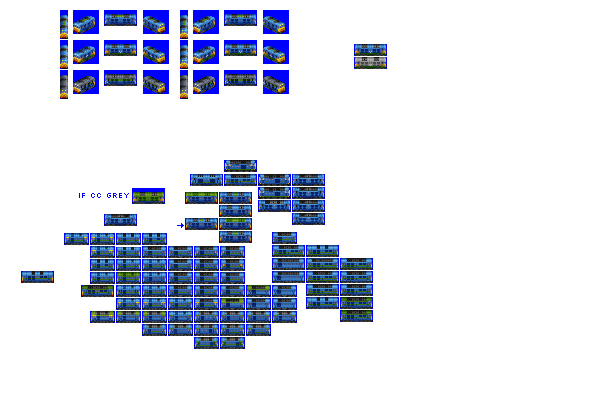
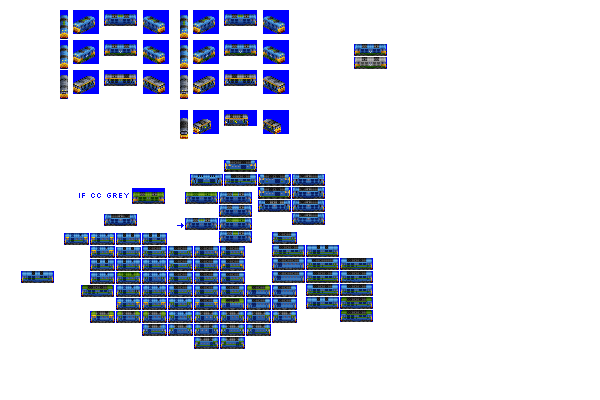
Change: additional liveries for Growler and Merlion

diff --git a/src/vehicles/growler.py b/src/vehicles/growler.py
@@ -15,7 +15,7 @@ def main(roster_id):
         random_reverse=True,
         gen=4,
         caboose_family="railfreight_1",
-        additional_liveries=["RAILFREIGHT_RED_STRIPE"],
+        additional_liveries=["BANGER_BLUE", "LARGE_LOGO", "RAILFREIGHT_RED_STRIPE"],
         default_livery_extra_docs_examples=[
             ("COLOUR_PALE_GREEN", "COLOUR_GREY"),
             ("COLOUR_PINK", "COLOUR_WHITE"),
